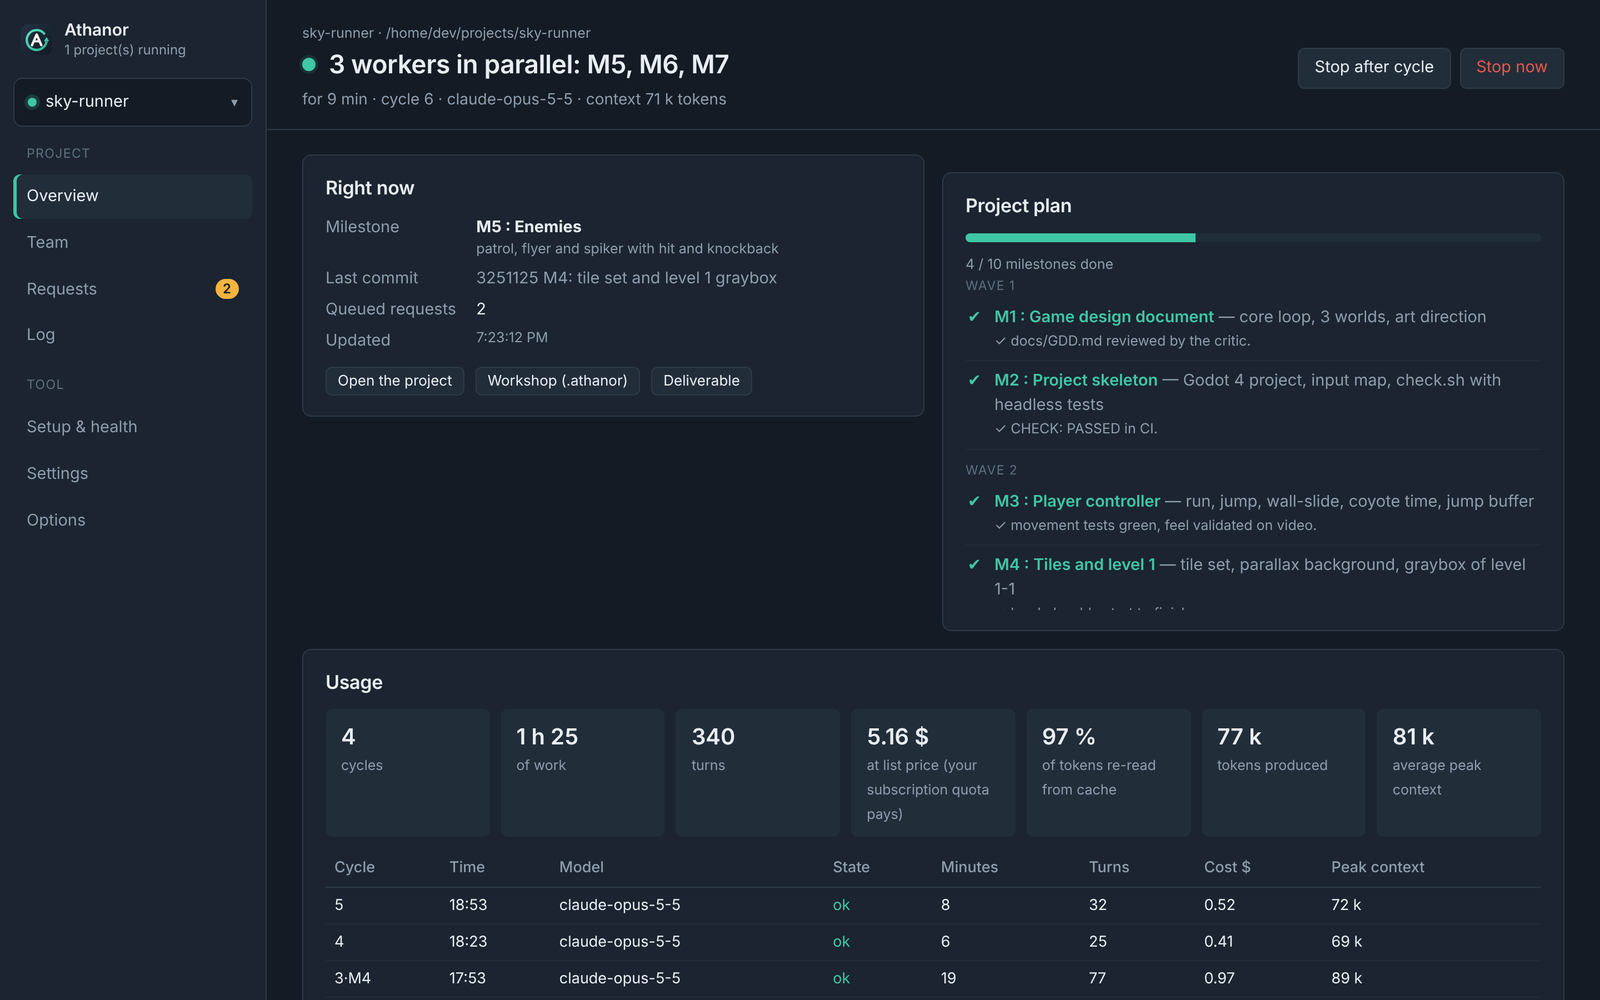
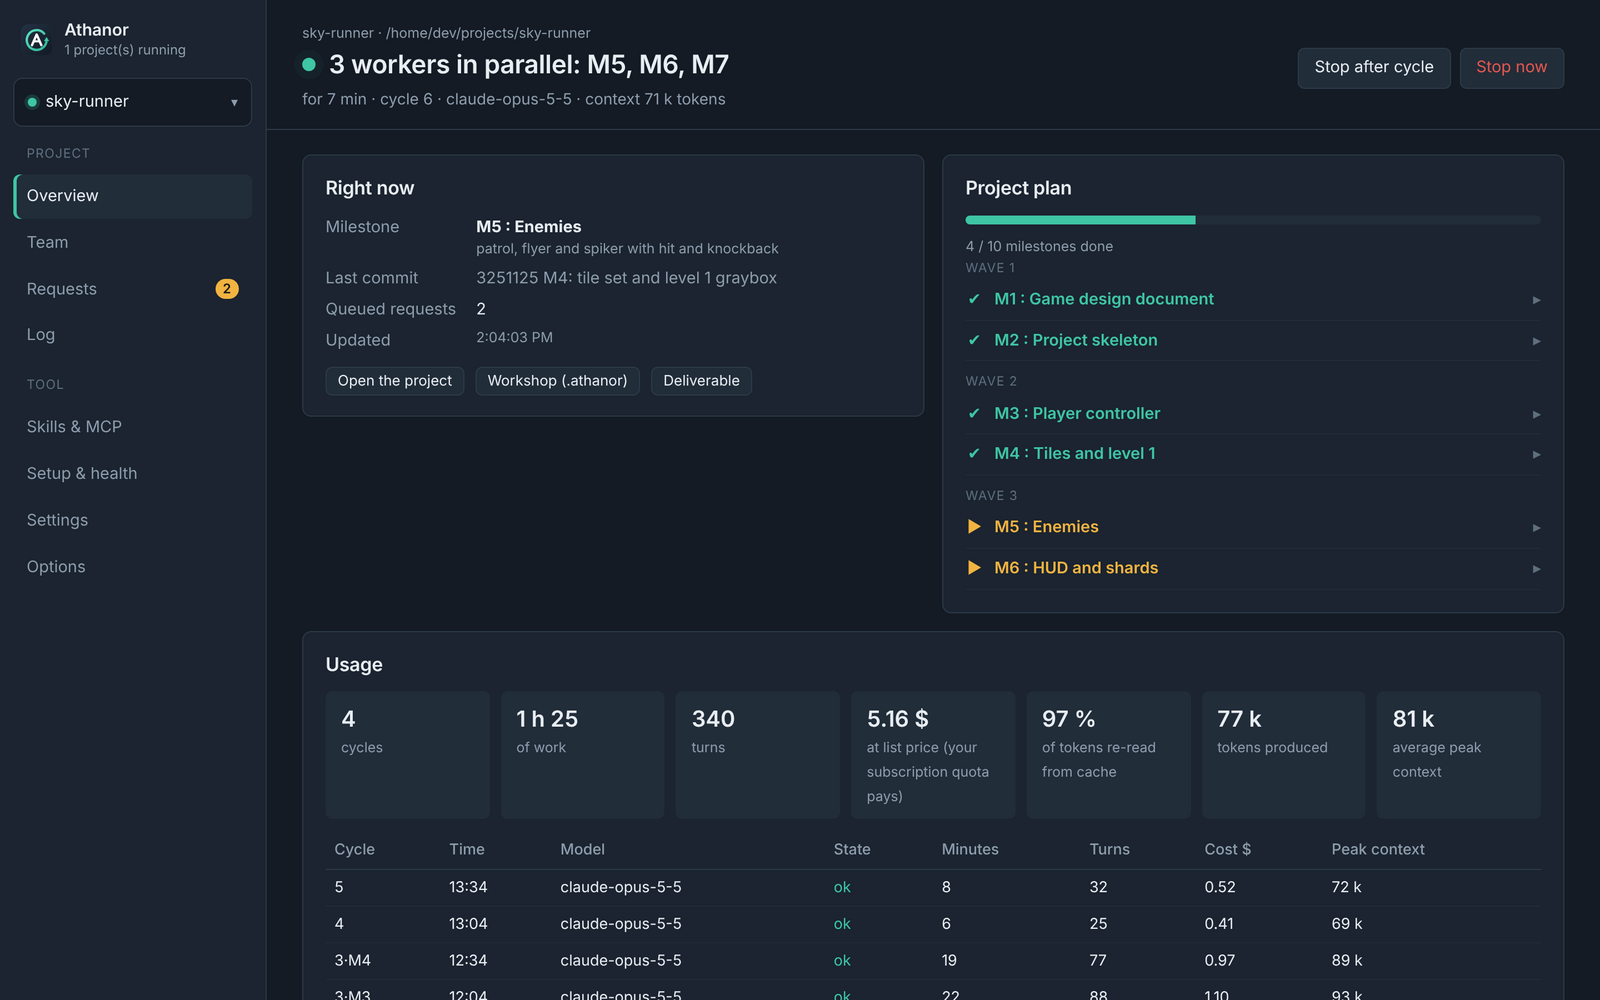
Athanor 2.5.1: README screenshots refreshed (Skills & MCP added), Overview cards aligned

diff --git a/app/static/app.css b/app/static/app.css
@@ -182,6 +182,7 @@ label.champ > span { display: block; color: var(--muted); font-size: 13px; margi
 .page { padding: 22px 32px 40px; overflow: auto; flex: 1; }
 .bloc { background: var(--panel); border: 1px solid var(--line); border-radius: var(--rayon); padding: 18px 20px; }
 .bloc + .bloc, .grille + .bloc, .grille + .ligne, .bloc + .grille { margin-top: 16px; }
+.grille > .bloc + .bloc, .colonne > .bloc + .bloc { margin-top: 0; }
 .bloc h2 { margin-bottom: 10px; }
 .bloc-liste { padding: 6px 8px; }
 .grille { display: grid; gap: 16px; align-items: start; }

diff --git a/README.md b/README.md
@@ -208,6 +208,7 @@ The agents live in [`template/.claude/agents/`](template/.claude/agents): edit t
 |:---:|:---:|
 | <img src="docs/images/team.png" alt="Team page: the project lead with the sub-agents it called, and three workers, each with its own executor"><br>**Team**: who called whom, what each one does, live | <img src="docs/images/log.png" alt="Log page in the light theme: pilot events, Claude's words, tools and sub-agents, worker lines tagged [M5]"><br>**Log**: readable or raw, filtered, workers tagged |
 | <img src="docs/images/requests.png" alt="Requests page: the current request with its plan in waves, and two queued requests that can be reordered"><br>**Requests**: a queue you can reorder, notes along the way | <img src="docs/images/options.png" alt="Options page: language, five palettes and five accents, startup options, tool folder"><br>**Options**: 6 languages, 5 palettes × 5 accents |
+| <img src="docs/images/skills.png" alt="Skills &amp; MCP page, Skills tab: four skills installed from the verified catalog, three of them switched on for this project, and the community search below"><br>**Skills**: installed once, switched on per project | <img src="docs/images/mcp.png" alt="Skills &amp; MCP page, MCP tab: Context7 and Godot switched on, an optional API key field, a successful test, and the MCP Registry search"><br>**MCP**: remote or local in a cage, tested in one click |
 
 The screenshots show the dark "Slate" and the "Light" palettes.
 
@@ -362,13 +363,14 @@ Athanor.exe, athanor   the app for Windows / Linux (in the release, or built wit
 app/                   the app's Go sources, static UI (HTML, CSS, JS without dependencies), Windows resources
 commands/              install, configure, start, stop, stop-after-cycle, follow, test-sandbox, repair,
                        allow-admin, unreal-network (.cmd for Windows, .sh for Linux/WSL)
-system/                pilot.sh (the loop), parallel.sh (scheduler, workers, merges), extensions.py + mcp-jail.sh (Skills & MCP), safety.sh, bridge.py, settings.py
-                       (sandbox), guard.py, detect-tools.sh, athanor.py (map, archives, screenshots),
+system/                pilot.sh (the loop), parallel.sh (scheduler, workers, merges), safety.sh, bridge.py,
+                       extensions.py + mcp-jail.sh (Skills & MCP), settings.py (sandbox), guard.py, detect-tools.sh, athanor.py (map, archives, screenshots),
                        bin/ (gateways), windows/ (PowerShell helpers)
 template/              CLAUDE.md (Claude's instructions), PC_TOOLS_GUIDE.md, .claude/agents/ (the team)
 docs/images/           README images
 .env.example           every setting, documented
-logs/, tools/          created at run time, never committed
+logs/, tools/,         created at run time, never committed
+extensions/
 ```
 
 Inside each project, `.athanor/` holds REQUEST.md, PLAN.md, LOG.md, queue/, done/, check.sh, STATE.json, stats.tsv and logs/. It is the only thing Athanor adds.
@@ -436,7 +438,7 @@ Yes. Nothing is tied to a user name or a drive letter: paths come from your prof
 Push a version tag and GitHub builds both apps and publishes the release ([`.github/workflows/release.yml`](.github/workflows/release.yml)):
 
 ```bash
-git tag v2.0.1 && git push origin v2.0.1
+git tag v2.5.1 && git push origin v2.5.1
 ```
 
 Keep the version in [`app/winres/athanor.rc`](app/winres/athanor.rc) in step with the tag.
